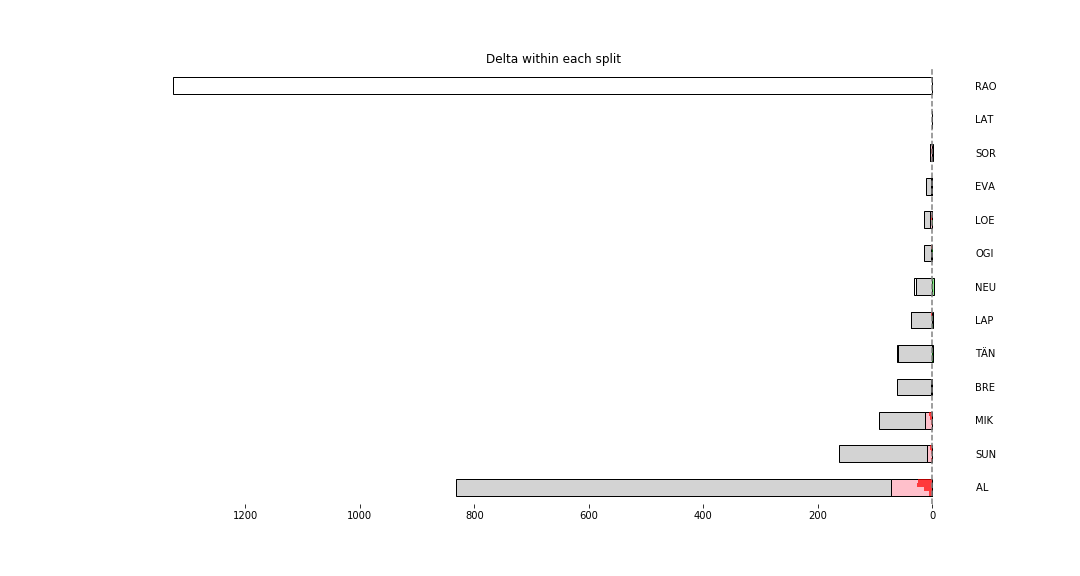
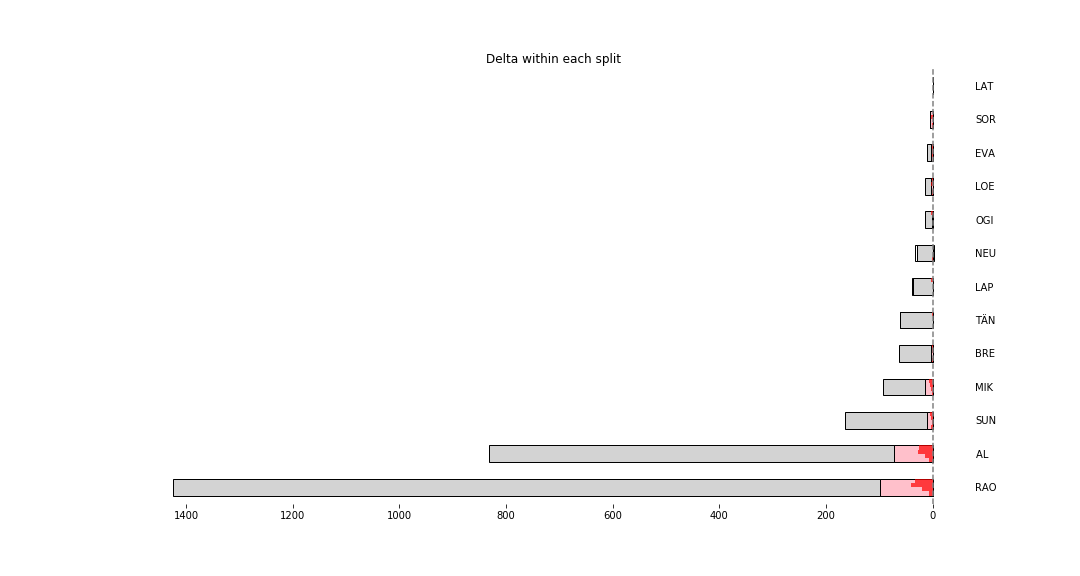
SS12

diff --git a/SS12_report.html b/SS12_report.html
@@ -4,7 +4,7 @@
     <head>
         <meta charset="UTF-8">
         <meta content="text/html; charset=utf-8" http-equiv="Content-Type">
-        <title>Section 6 · GitBook</title>
+        <title>SS12 - Querol 2 (asphalt) · GitBook</title>
         <meta http-equiv="X-UA-Compatible" content="IE=edge" />
         <meta name="description" content="">
         <meta name="generator" content="GitBook 3.2.3">
@@ -57,10 +57,10 @@
     <link rel="shortcut icon" href="gitbook/images/favicon.ico" type="image/x-icon">
 
     
-    <link rel="next" href="SS11_report.html" />
+    <link rel="next" href="SS13_report.html" />
     
     
-    <link rel="prev" href="SS10_report.html" />
+    <link rel="prev" href="SS11_report.html" />
     
 
     </head>
@@ -392,7 +392,7 @@
             
         </li>
     
-        <li class="chapter active" data-level="1.8" data-path="Section 6_report.html">
+        <li class="chapter " data-level="1.8" data-path="Section 6_report.html">
             
                 <a href="Section 6_report.html">
             
@@ -419,7 +419,7 @@
             
         </li>
     
-        <li class="chapter " data-level="1.8.2" data-path="SS12_report.html">
+        <li class="chapter active" data-level="1.8.2" data-path="SS12_report.html">
             
                 <a href="SS12_report.html">
             
@@ -640,7 +640,7 @@
     <!-- Title -->
     <h1>
         <i class="fa fa-circle-o-notch fa-spin"></i>
-        <a href="." >Section 6</a>
+        <a href="." >SS12 - Querol 2 (asphalt)</a>
     </h1>
 </div>
 
@@ -655,157 +655,14 @@
     
                                 <section class="normal markdown-section">
                                 
-                                <h1 id="section-6-saturday-27th-october">Section 6, Saturday 27th October</h1>
-<p>This section comprises three special stages (SS11 - Savall&#xE0; 2 (asphalt) (14.12km), SS12 - Querol 2 (asphalt) (21.26km), SS13 - El Montmell 2 (asphalt) TV Live (24.4km))</p>
-<p>The full scheduled itinerary for the section was as follows:</p>
-<pre><code>- 11:43:00 TC10B Regroup OUT - Service IN  [00:10:00]
-- 12:13:00 TC10C Service OUT  [00:30:00]
-- 13:25:00 TC11 Savall&#xE0; (72.94km) [01:12:00]
-- 13:28:00 SS11 Savall&#xE0; 2 (asphalt) (14.12km) [00:03:00]
-- 14:07:00 TC12 Querol (15.49km) [00:39:00]
-- 14:10:00 SS12 Querol 2 (asphalt) (21.26km) [00:03:00]
-- 15:01:00 TC13 El Montmell (14.0km) [00:51:00]
-- 15:08:00 SS13 El Montmell 2 (asphalt) TV Live (24.4km) [00:07:00]
-- 16:42:00 TC13A Regroup IN - Salou (71.33km) [01:34:00]
-</code></pre><h3 id="section-6-report">Section 6 Report</h3>
-<p>Section 6</p>
-<p><img src="images/spchart_stage_Section 6.png" alt="">
-Section 6</p>
-<p><img src="images/spchart_overall_Section 6.png" alt=""></p>
-<h2 id="stage-result---ss11">Stage Result - SS11</h2>
-<table>
-<thead>
-<tr>
-<th>Driver</th>
-<th>Team</th>
-<th>Elapsed Duration</th>
-<th style="text-align:right">Position</th>
-<th style="text-align:right">Class Rank</th>
-<th>diffFirst</th>
-<th>diffPrev</th>
-</tr>
-</thead>
-<tbody>
-<tr>
-<td>NEU</td>
-<td>HYUNDAI SHELL MOBIS WRT</td>
-<td>00:07:47.1000000</td>
-<td style="text-align:right">1</td>
-<td style="text-align:right">1</td>
-<td>00:00:00</td>
-<td>00:00:00</td>
-</tr>
-<tr>
-<td>T&#xC4;N</td>
-<td>TOYOTA GAZOO RACING WRT</td>
-<td>00:07:48.3000000</td>
-<td style="text-align:right">2</td>
-<td style="text-align:right">2</td>
-<td>00:00:01.2000000</td>
-<td>00:00:01.2000000</td>
-</tr>
-<tr>
-<td>LAP</td>
-<td>TOYOTA GAZOO RACING WRT</td>
-<td>00:07:49.5000000</td>
-<td style="text-align:right">3</td>
-<td style="text-align:right">3</td>
-<td>00:00:02.4000000</td>
-<td>00:00:01.2000000</td>
-</tr>
-<tr>
-<td>LAT</td>
-<td>TOYOTA GAZOO RACING WRT</td>
-<td>00:07:49.7000000</td>
-<td style="text-align:right">4</td>
-<td style="text-align:right">4</td>
-<td>00:00:02.6000000</td>
-<td>00:00:00.2000000</td>
-</tr>
-<tr>
-<td>OGI</td>
-<td>M-SPORT FORD WORLD RALLY TEAM</td>
-<td>00:07:51.6000000</td>
-<td style="text-align:right">5</td>
-<td style="text-align:right">5</td>
-<td>00:00:04.5000000</td>
-<td>00:00:01.9000000</td>
-</tr>
-<tr>
-<td>EVA</td>
-<td>M-SPORT FORD WORLD RALLY TEAM</td>
-<td>00:07:52.7000000</td>
-<td style="text-align:right">6</td>
-<td style="text-align:right">6</td>
-<td>00:00:05.6000000</td>
-<td>00:00:01.1000000</td>
-</tr>
-<tr>
-<td>BRE</td>
-<td>CITRO&#xCB;N TOTAL ABU DHABI  WRT</td>
-<td>00:07:52.8000000</td>
-<td style="text-align:right">7</td>
-<td style="text-align:right">7</td>
-<td>00:00:05.7000000</td>
-<td>00:00:00.1000000</td>
-</tr>
-<tr>
-<td>LOE</td>
-<td>CITRO&#xCB;N  TOTAL ABU DHABI WRT</td>
-<td>00:07:53.4000000</td>
-<td style="text-align:right">8</td>
-<td style="text-align:right">8</td>
-<td>00:00:06.3000000</td>
-<td>00:00:00.6000000</td>
-</tr>
-<tr>
-<td>SOR</td>
-<td>HYUNDAI SHELL MOBIS WRT</td>
-<td>00:07:53.9000000</td>
-<td style="text-align:right">9</td>
-<td style="text-align:right">9</td>
-<td>00:00:06.8000000</td>
-<td>00:00:00.5000000</td>
-</tr>
-<tr>
-<td>SUN</td>
-<td>M-SPORT FORD WORLD RALLY TEAM</td>
-<td>00:07:59.9000000</td>
-<td style="text-align:right">10</td>
-<td style="text-align:right">10</td>
-<td>00:00:12.8000000</td>
-<td>00:00:06</td>
-</tr>
-<tr>
-<td>MIK</td>
-<td>HYUNDAI SHELL MOBIS WRT</td>
-<td>00:08:03.4000000</td>
-<td style="text-align:right">11</td>
-<td style="text-align:right">11</td>
-<td>00:00:16.3000000</td>
-<td>00:00:03.5000000</td>
-</tr>
-<tr>
-<td>AL</td>
-<td>CITRO&#xCB;N TOTAL ABU DHABI  WRT</td>
-<td>00:09:02.6000000</td>
-<td style="text-align:right">27</td>
-<td style="text-align:right">12</td>
-<td>00:01:15.5000000</td>
-<td>00:00:27.8000000</td>
-</tr>
-<tr>
-<td>RAO</td>
-<td>JEAN-MICHEL RAOUX</td>
-<td>00:09:27.8000000</td>
-<td style="text-align:right">33</td>
-<td style="text-align:right">13</td>
-<td>00:01:40.7000000</td>
-<td>00:00:00.9000000</td>
-</tr>
-</tbody>
-</table>
-<h2 id="stage-result---ss12">Stage Result - SS12</h2>
+                                <h1 id="stage-map---spain-2018---ss12">Stage Map - Spain, 2018 - SS12</h1>
+<p><img src="maps/SS9-12.png" alt=""></p>
+<h1 id="stage-overall-split-delta-chart---spain-2018---lat---ss12">Stage Overall Split Delta Chart - Spain, 2018 - LAT - SS12</h1>
+<p><img src="images/stage_report_split_delta_12_LAT.png" alt=""></p>
+<h1 id="stage-within-split-delta-chart---spain-2018---lat---ss12">Stage Within Split Delta Chart - Spain, 2018 - LAT - SS12</h1>
+<p><img src="images/stage_report_individual_split_delta_12_LAT.png" alt=""></p>
+<h1 id="stage-progress-chart---spain-2018---lat---ss12">Stage Progress Chart - Spain, 2018 - LAT - SS12</h1>
+<p><img src="images/stage_report_12_LAT.png" alt=""></p>
 <table>
 <thead>
 <tr>
@@ -938,49 +795,6 @@ Section 6</p>
 </tr>
 </tbody>
 </table>
-<h2 id="stage-result---ss13">Stage Result - SS13</h2>
-<table>
-<thead>
-<tr>
-<th>Driver</th>
-<th>Team</th>
-<th>Elapsed Duration</th>
-<th style="text-align:right">Position</th>
-<th style="text-align:right">Class Rank</th>
-<th>diffFirst</th>
-<th>diffPrev</th>
-</tr>
-</thead>
-<tbody>
-<tr>
-<td>SUN</td>
-<td>M-SPORT FORD WORLD RALLY TEAM</td>
-<td>00:13:13.9000000</td>
-<td style="text-align:right">1</td>
-<td style="text-align:right">1</td>
-<td>00:00:00</td>
-<td>00:00:00</td>
-</tr>
-<tr>
-<td>LAP</td>
-<td>TOYOTA GAZOO RACING WRT</td>
-<td>00:13:22.1000000</td>
-<td style="text-align:right">2</td>
-<td style="text-align:right">2</td>
-<td>00:00:08.2000000</td>
-<td>00:00:08.2000000</td>
-</tr>
-<tr>
-<td>AL</td>
-<td>CITRO&#xCB;N TOTAL ABU DHABI  WRT</td>
-<td>00:15:09.4000000</td>
-<td style="text-align:right">3</td>
-<td style="text-align:right">3</td>
-<td>00:01:55.5000000</td>
-<td>00:01:47.3000000</td>
-</tr>
-</tbody>
-</table>
 
                                 
                                 </section>
@@ -1008,12 +822,12 @@ Section 6</p>
 
             
                 
-                <a href="SS10_report.html" class="navigation navigation-prev " aria-label="Previous page: SS10 - El Montmell 1 (asphalt) TV Live">
+                <a href="SS11_report.html" class="navigation navigation-prev " aria-label="Previous page: SS11 - Savallà 2 (asphalt)">
                     <i class="fa fa-angle-left"></i>
                 </a>
                 
                 
-                <a href="SS11_report.html" class="navigation navigation-next " aria-label="Next page: SS11 - Savallà 2 (asphalt)">
+                <a href="SS13_report.html" class="navigation navigation-next " aria-label="Next page: SS13 - El Montmell 2 (asphalt) TV Live">
                     <i class="fa fa-angle-right"></i>
                 </a>
                 
@@ -1024,7 +838,7 @@ Section 6</p>
     <script>
         var gitbook = gitbook || [];
         gitbook.push(function() {
-            gitbook.page.hasChanged({"page":{"title":"Section 6","level":"1.8","depth":1,"next":{"title":"SS11 - Savallà 2 (asphalt)","level":"1.8.1","depth":2,"path":"SS11_report.md","ref":"SS11_report.md","articles":[]},"previous":{"title":"SS10 - El Montmell 1 (asphalt) TV Live","level":"1.7.3","depth":2,"path":"SS10_report.md","ref":"SS10_report.md","articles":[]},"dir":"ltr"},"config":{"gitbook":"*","theme":"default","variables":{},"plugins":[],"pluginsConfig":{"highlight":{},"search":{},"lunr":{"maxIndexSize":1000000,"ignoreSpecialCharacters":false},"sharing":{"facebook":true,"twitter":true,"google":false,"weibo":false,"instapaper":false,"vk":false,"all":["facebook","google","twitter","weibo","instapaper"]},"fontsettings":{"theme":"white","family":"sans","size":2},"theme-default":{"styles":{"website":"styles/website.css","pdf":"styles/pdf.css","epub":"styles/epub.css","mobi":"styles/mobi.css","ebook":"styles/ebook.css","print":"styles/print.css"},"showLevel":false}},"structure":{"langs":"LANGS.md","readme":"README.md","glossary":"GLOSSARY.md","summary":"SUMMARY.md"},"pdf":{"pageNumbers":true,"fontSize":12,"fontFamily":"Arial","paperSize":"a4","chapterMark":"pagebreak","pageBreaksBefore":"/","margin":{"right":62,"left":62,"top":56,"bottom":56}},"styles":{"website":"styles/website.css","pdf":"styles/pdf.css","epub":"styles/epub.css","mobi":"styles/mobi.css","ebook":"styles/ebook.css","print":"styles/print.css"}},"file":{"path":"Section 6_report.md","mtime":"2018-10-27T13:32:33.324Z","type":"markdown"},"gitbook":{"version":"3.2.3","time":"2018-10-27T13:33:08.948Z"},"basePath":".","book":{"language":""}});
+            gitbook.page.hasChanged({"page":{"title":"SS12 - Querol 2 (asphalt)","level":"1.8.2","depth":2,"next":{"title":"SS13 - El Montmell 2 (asphalt) TV Live","level":"1.8.3","depth":2,"path":"SS13_report.md","ref":"SS13_report.md","articles":[]},"previous":{"title":"SS11 - Savallà 2 (asphalt)","level":"1.8.1","depth":2,"path":"SS11_report.md","ref":"SS11_report.md","articles":[]},"dir":"ltr"},"config":{"gitbook":"*","theme":"default","variables":{},"plugins":[],"pluginsConfig":{"highlight":{},"search":{},"lunr":{"maxIndexSize":1000000,"ignoreSpecialCharacters":false},"sharing":{"facebook":true,"twitter":true,"google":false,"weibo":false,"instapaper":false,"vk":false,"all":["facebook","google","twitter","weibo","instapaper"]},"fontsettings":{"theme":"white","family":"sans","size":2},"theme-default":{"styles":{"website":"styles/website.css","pdf":"styles/pdf.css","epub":"styles/epub.css","mobi":"styles/mobi.css","ebook":"styles/ebook.css","print":"styles/print.css"},"showLevel":false}},"structure":{"langs":"LANGS.md","readme":"README.md","glossary":"GLOSSARY.md","summary":"SUMMARY.md"},"pdf":{"pageNumbers":true,"fontSize":12,"fontFamily":"Arial","paperSize":"a4","chapterMark":"pagebreak","pageBreaksBefore":"/","margin":{"right":62,"left":62,"top":56,"bottom":56}},"styles":{"website":"styles/website.css","pdf":"styles/pdf.css","epub":"styles/epub.css","mobi":"styles/mobi.css","ebook":"styles/ebook.css","print":"styles/print.css"}},"file":{"path":"SS12_report.md","mtime":"2018-10-27T13:32:57.532Z","type":"markdown"},"gitbook":{"version":"3.2.3","time":"2018-10-27T13:33:08.948Z"},"basePath":".","book":{"language":""}});
         });
     </script>
 </div>

diff --git a/index.html b/index.html
@@ -417,9 +417,9 @@
             
         </li>
     
-        <li class="chapter " data-level="1.8.2" data-path="SS12_report.md">
+        <li class="chapter " data-level="1.8.2" data-path="SS12_report.html">
             
-                <span>
+                <a href="SS12_report.html">
             
                     
                     SS12 - Querol 2 (asphalt)
@@ -430,9 +430,9 @@
             
         </li>
     
-        <li class="chapter " data-level="1.8.3" data-path="SS13_report.md">
+        <li class="chapter " data-level="1.8.3" data-path="SS13_report.html">
             
-                <span>
+                <a href="SS13_report.html">
             
                     
                     SS13 - El Montmell 2 (asphalt) TV Live
@@ -658,6 +658,8 @@
 <p>RallyRACC Catalunya - Rally de Espa&#xF1;a (2018-10-25 to 2018-10-28) runs over 18 competitive special stages. The distance covered on the special stages is 331.58km, with an overall rally distance of 1495.73km. The special stage surface type is predominantly .</p>
 <p><img src="images/spchart_full.png" alt="">
 <img src="images/spchart_full.png" alt="">
+<img src="images/spchart_full.png" alt="">
+<img src="images/spchart_full.png" alt="">
 <img src="images/spchart_full.png" alt=""></p>
 
                                 
@@ -698,7 +700,7 @@
     <script>
         var gitbook = gitbook || [];
         gitbook.push(function() {
-            gitbook.page.hasChanged({"page":{"title":"Introduction","level":"1.1","depth":1,"next":{"title":"Entry List","level":"1.2","depth":1,"path":"entry_list.md","ref":"entry_list.md","articles":[{"title":"RC1","level":"1.2.1","depth":2,"path":"entries_RC1.md","ref":"entries_RC1.md","articles":[]},{"title":"RC2","level":"1.2.2","depth":2,"path":"entries_RC2.md","ref":"entries_RC2.md","articles":[]},{"title":"RC3","level":"1.2.3","depth":2,"path":"entries_RC3.md","ref":"entries_RC3.md","articles":[]},{"title":"RC4","level":"1.2.4","depth":2,"path":"entries_RC4.md","ref":"entries_RC4.md","articles":[]}]},"dir":"ltr"},"config":{"gitbook":"*","theme":"default","variables":{},"plugins":["livereload"],"pluginsConfig":{"livereload":{},"highlight":{},"search":{},"lunr":{"maxIndexSize":1000000,"ignoreSpecialCharacters":false},"sharing":{"facebook":true,"twitter":true,"google":false,"weibo":false,"instapaper":false,"vk":false,"all":["facebook","google","twitter","weibo","instapaper"]},"fontsettings":{"theme":"white","family":"sans","size":2},"theme-default":{"styles":{"website":"styles/website.css","pdf":"styles/pdf.css","epub":"styles/epub.css","mobi":"styles/mobi.css","ebook":"styles/ebook.css","print":"styles/print.css"},"showLevel":false}},"structure":{"langs":"LANGS.md","readme":"README.md","glossary":"GLOSSARY.md","summary":"SUMMARY.md"},"pdf":{"pageNumbers":true,"fontSize":12,"fontFamily":"Arial","paperSize":"a4","chapterMark":"pagebreak","pageBreaksBefore":"/","margin":{"right":62,"left":62,"top":56,"bottom":56}},"styles":{"website":"styles/website.css","pdf":"styles/pdf.css","epub":"styles/epub.css","mobi":"styles/mobi.css","ebook":"styles/ebook.css","print":"styles/print.css"}},"file":{"path":"README.md","mtime":"2018-10-27T12:16:15.598Z","type":"markdown"},"gitbook":{"version":"3.2.3","time":"2018-10-27T11:32:20.169Z"},"basePath":".","book":{"language":""}});
+            gitbook.page.hasChanged({"page":{"title":"Introduction","level":"1.1","depth":1,"next":{"title":"Entry List","level":"1.2","depth":1,"path":"entry_list.md","ref":"entry_list.md","articles":[{"title":"RC1","level":"1.2.1","depth":2,"path":"entries_RC1.md","ref":"entries_RC1.md","articles":[]},{"title":"RC2","level":"1.2.2","depth":2,"path":"entries_RC2.md","ref":"entries_RC2.md","articles":[]},{"title":"RC3","level":"1.2.3","depth":2,"path":"entries_RC3.md","ref":"entries_RC3.md","articles":[]},{"title":"RC4","level":"1.2.4","depth":2,"path":"entries_RC4.md","ref":"entries_RC4.md","articles":[]}]},"dir":"ltr"},"config":{"gitbook":"*","theme":"default","variables":{},"plugins":[],"pluginsConfig":{"highlight":{},"search":{},"lunr":{"maxIndexSize":1000000,"ignoreSpecialCharacters":false},"sharing":{"facebook":true,"twitter":true,"google":false,"weibo":false,"instapaper":false,"vk":false,"all":["facebook","google","twitter","weibo","instapaper"]},"fontsettings":{"theme":"white","family":"sans","size":2},"theme-default":{"styles":{"website":"styles/website.css","pdf":"styles/pdf.css","epub":"styles/epub.css","mobi":"styles/mobi.css","ebook":"styles/ebook.css","print":"styles/print.css"},"showLevel":false}},"structure":{"langs":"LANGS.md","readme":"README.md","glossary":"GLOSSARY.md","summary":"SUMMARY.md"},"pdf":{"pageNumbers":true,"fontSize":12,"fontFamily":"Arial","paperSize":"a4","chapterMark":"pagebreak","pageBreaksBefore":"/","margin":{"right":62,"left":62,"top":56,"bottom":56}},"styles":{"website":"styles/website.css","pdf":"styles/pdf.css","epub":"styles/epub.css","mobi":"styles/mobi.css","ebook":"styles/ebook.css","print":"styles/print.css"}},"file":{"path":"README.md","mtime":"2018-10-27T13:32:38.334Z","type":"markdown"},"gitbook":{"version":"3.2.3","time":"2018-10-27T13:33:08.948Z"},"basePath":".","book":{"language":""}});
         });
     </script>
 </div>
@@ -706,10 +708,6 @@
         
     <script src="gitbook/gitbook.js"></script>
     <script src="gitbook/theme.js"></script>
-    
-        
-        <script src="gitbook/gitbook-plugin-livereload/plugin.js"></script>
-        
     
         
         <script src="gitbook/gitbook-plugin-search/search-engine.js"></script>
